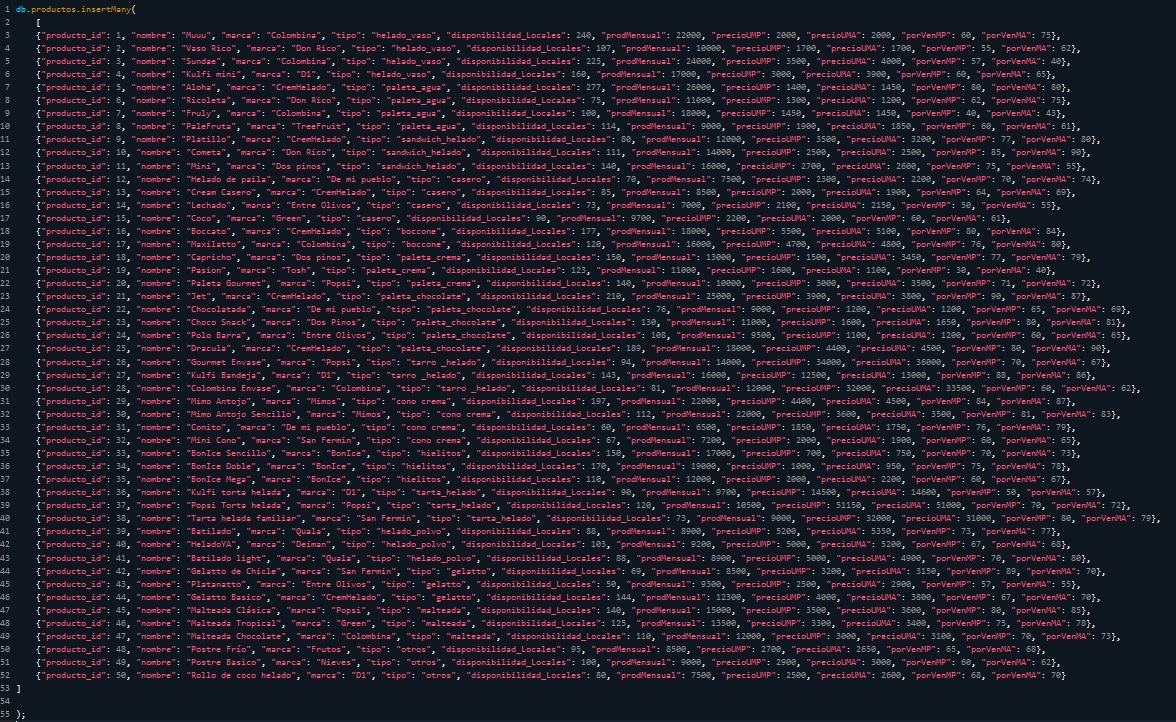
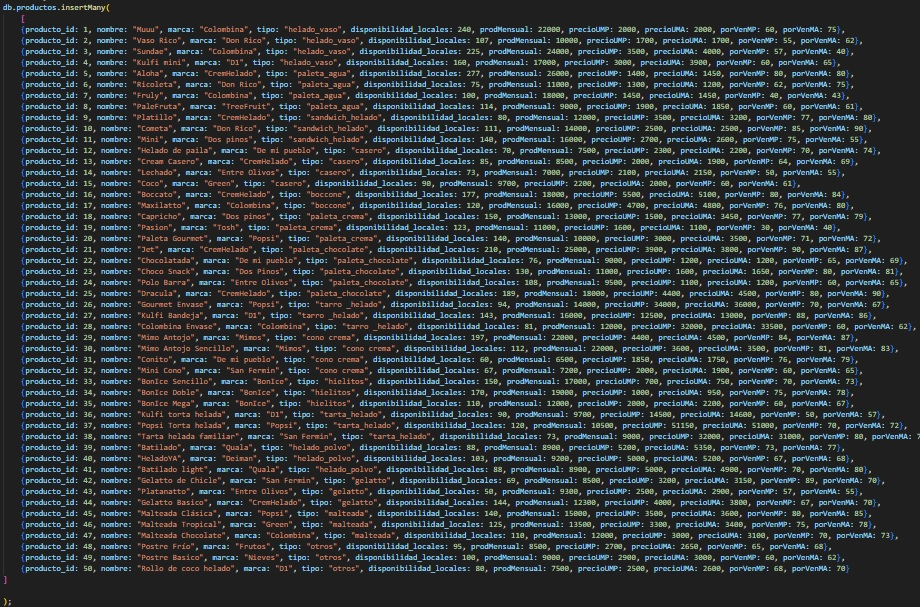
Correciones

diff --git a/src/Utilidades/ListaTarea.js b/src/Utilidades/ListaTarea.js
@@ -25,7 +25,7 @@ export const ListaTarea = [
     descripcion1: `La marca de helados "Don Rico" es bastante nueva en el mercado con solo un mes de salida,
     para confirmar sus éxitos se le solicitó a MercaHelado verificar cuáles de sus 3 productos se encuentran
     disponibles en más de 100 locales. Entonces se realizo la siguiente consulta:`,
-    consulta: `db.productos.find({$and: [{"marca": "Don Rico"}, {"disponibilidad_Locales": {$gt: 100}}]})`,
+    consulta: `db.productos.find({$and: [{marca: "Don Rico"}, {disponibilidad_locales: {$gt: 100}}]})`,
     imagen: consulta1,
     descripcion2: `Se obtiene entonces que los productos de la marca que se encuentran disponibles en mas de 100 locales
     son el "Vaso Rico" y el sandwich de helado "Cometa"`,
@@ -35,7 +35,7 @@ export const ListaTarea = [
     descripcion1: `Durante una reunion con las marcas asociadas uno de los encargados solicita conocer los productos con
     mayor produccion mensual y para ello supone un rango entre continuo 20000 y 30000 unidades de produccion. Entonces se realizo
     la siguiente consulta:`,
-    consulta: `db.collection.find({"prodMensual": {$gte: 20000, $lte: 30000}})`,
+    consulta: `db.collection.find({prodMensual: {$gte: 20000, $lte: 30000}})`,
     imagen: consulta2,
     descripcion2: `Se obtiene entonces que hay 6 productos cuya produccion mensual esta entre los 20000 y 30000 unidades, dichos productos podrian considerarse
     categorias de "alat demanda" y ademas que pertenecen a marcas reconocidas siendo CremHelado, Colombina y Mimos,"`,
@@ -45,7 +45,7 @@ export const ListaTarea = [
     descripcion1: `MercaHelado a decido que implementara alunas categorias de "alcance comercial" para los productos de acuerdo a su
     disponibilidad en locales, la categoria "municipal" aplicaria para productos los cuales NO poseen una disponibilidad
     de 100 locales pero a su vez poseen una disponibilidad de menos de 70 locales. Entonces se realizo la siguiente consulta:`,
-    consulta: `db.productos.find({"$and": [{"disponibilidad_Locales": {$not: {$eq: 100}}}, {"disponibilidad_Locales": {$lt: 70}}]})`,
+    consulta: `db.productos.find({$and: [{disponibilidad_locales: {$not: {$eq: 100}}}, {disponibilidad_locales: {$lt: 70}}]})`,
     imagen: consulta3,
     descripcion2: `Se obtiene entonces que hay 3 productos los cuales podrian catalogarse como productos de alcance comercial "municipal",
     ademas, sus marcas "San Farmin" y "De mi pueblo" no son necesariamente reconocidas a niveles regionales grandes o nacionales`,
@@ -55,7 +55,7 @@ export const ListaTarea = [
     descripcion1: `La marca de Colombina han notado que existe la posibilidad de que algunos de sus productos esten poseyendo, un
     porcentaje de venta actual inferior al del mes pasado, se colicita encontrar cuales de sus productos poseen un procentaje
     de venta del mes pasado superior al actual. Entonces se realizo la siguiente consulta: `,
-    consulta: `db.productos.find({"marca": "Colombina", "$expr": {$gt: ["$porVenMP", "$porVenMA"]}})`,
+    consulta: `db.productos.find({marca: "Colombina", "$expr": {$gt: ["$porVenMP", "$porVenMA"]}})`,
     imagen: consulta4,
     descripcion2: `Se obtiene entonces que de sus productos, el unico que a reducido su procentaje de ventas es el "Sundae", al ver 
     su informacion podria deducirse que es por el incremento de su precio de 3500 a 4000 pesos`,
@@ -64,7 +64,7 @@ export const ListaTarea = [
     titulo: "Consulta 5",
     descripcion1: `Por simple curiosidad durante una de las reuniones, uno de los encargados le interesa conocer, cual es la informacion sobre
     los 2 ultimo productos añadidos a la base de datos, entonces, se realiza la siguiente consulta:`,
-    consulta: `db.productos.find({"producto_id": {$in: [49, 50]}})`,
+    consulta: `db.productos.find({producto_id: {$in: [49, 50]}})`,
     imagen: consulta5,
     descripcion2: `Se obtiene que los productos son el "Postre Basico" y "Rollo de coco helado" en la categoria de otros (pendientes por categorizar o sin
     categoria especifica). En este caso una buqueda por rango limitado si seria adecuado pues obtenemos resultados mas exactos de acuerdo a lo solicitado`,
@@ -74,7 +74,7 @@ export const ListaTarea = [
     descripcion1: `Se sabe que hay 50 productos registrados dentro de MercaHelado de diversos asociados, y se desea notificar las marcas
     distribuidoras cuyos productos tengan un porcentaje de venta actual entre 80-90, uno de los encargados jefes ordena que la consulta se
     haga en rangos de 2 en 2. Entonces se realizo la siguiente consulta: `,
-    consulta: `db.productos.find({"porVenMA": {$in: [80, 82, 84, 86, 88, 90]}})`,
+    consulta: `db.productos.find({porVenMA: {$in: [80, 82, 84, 86, 88, 90]}})`,
     imagen: consulta6,
     descripcion2: `Se obtiene entonces que hay 8 productos los cuales podrian considerarse un rotundo exito de ventas de los cuales la 
     mitad son de "Crem Helado" y el esto son de marcas mas varias. Sin embargo, esta consulta por rango limitado resultaria no tan pracita
@@ -84,7 +84,7 @@ export const ListaTarea = [
     titulo: "Consulta 7",
     descripcion1: `Se sabe que las paletas de chocolate el producto con mayores registros en la base de Mercahelado, habiendo 5 de ellos
     , se desea conocer cuales de estas poseen producciones mensuales medias y se propone un rango continuo de 6000-10000. Se realiza la siguiente consulta: `,
-    consulta: `db.productos.find({"$and": [{"tipo": "paleta_chocolate"},{"prodMensual": {$gt: 6000, $lt: 10000}}]})`,
+    consulta: `db.productos.find({$and: [{tipo: "paleta_chocolate"},{prodMensual: {$gt: 6000, $lt: 10000}}]})`,
     imagen: consulta7,
     descripcion2: `Se obtiene entonces que hay 2 paletas cuyas producciones mensuales superan las 6000 unidades pero no las 10000 y que pertecen a marcas no tan
     reconocidas.`,
@@ -94,7 +94,7 @@ export const ListaTarea = [
     descripcion1: `Durante una reunion con las marcas asociadas el encagado de BonIce lanzo la siguiente afirmacion, "...con la constante inflacion de precios ya casi
     no se encuentra productos cuyos precios unitarios actuales a sean inferiores a 1000 pesos, creo que los unicos productos por debajo de este precio son los de mi
     marca a excepcion del "BonIce mega" porque es mucho mas grandes, creo". Para confirmar si la afirmacion es cierta se realizo la siguiente consulta`,
-    consulta: `db.productos.find({"$or": [{"marca": "BonIce"},{"precioUMA": {$lt: 1000}}]})`,
+    consulta: `db.productos.find({$or: [{marca: "BonIce"},{precioUMA: {$lt: 1000}}]})`,
     imagen: consulta8,
     descripcion2: `Se obtienen entonces los productos registrados de BonIce y al observas sus precios efectivamente el unico cuyo precio unitario actual esta por encima
     de 1000 pesos es el "BonIce" mega, la afirmacion del encargado resulta cierta al no haer otros productos que no fueran de BonIce con precios inferiores a los 1000 pesos`,
@@ -105,7 +105,7 @@ export const ListaTarea = [
     suponer que la disponibilidad de algunos de sus productos esta por encima de los 200 locales. De manera amistosa dos encargados de la marca apuestan para ver cual marca
     posee una mayor cantidad de productos con dicha disponibilidad en locales. La mayoria piensa que CremHelado sera la marca con mas productos bajo estas condiciones. Se 
     realiza la siguiente consulta para corroborar la afirmacion`,
-    consulta: `db.productos.find({"$and": [{"disponibilidad_Locales": {$gt: 200}}, {"marca": {$in: ["Colombina", "CremHelado"]}}]})`,
+    consulta: `db.productos.find({$and: [{disponibilidad_locales: {$gt: 200}}, {marca: {$in: ["Colombina", "CremHelado"]}}]})`,
     imagen: consulta9,
     descripcion2: `Se obtiene que hay un empate entre las 2 marcas al poseer una misma cantidad de productos con disponibilidad superior a 200,por lo que la  
     afirmacion realizada por la mayoria es incorrecta.`,
@@ -115,7 +115,7 @@ export const ListaTarea = [
     descripcion1: `Las anterior consulta demostro que algunos productos tanto de Colombina como CremHelado demustran una clara superioridad en disponibilidad, esto despierta
     el interes de un encargado quien solicita conocer que otros productos tienen disponibilidades similares, pero, bajo las condiciones que no pertenezcan a estas 2 marcas previas
     o tengan una disponibilidad en locales menor a 180. Para brindar informacion al encargado se relaiza la siguiente consulta`,
-    consulta: `db.productos.find({"$nor": [{"marca": "Colombina"}, {"marca": "CremHelado"}, {"disponibilidad_Locales": {$lt: 180}}]})`,
+    consulta: `db.productos.find({$nor: [{marca: "Colombina"}, {marca: "CremHelado"}, {disponibilidad_locales: {$lt: 180}}]})`,
     imagen: consulta10,
     descripcion2: `Se obtiene que solamente hay UN producto el cual no pertence a ni a Colombina ni a CremHelado cuya disponibilidad sea NO menor a 180 locales, 
     el cual es el cono crema "Mimo antojo" de la marca Mimos, puede suponerse que este unico producto es el mas comercializado en su categoria y en futuros meses
@@ -125,7 +125,7 @@ export const ListaTarea = [
     titulo: "Consulta 11",
     descripcion1: `Como plataforma puente de distirbucion de productos MercaHelado debe alertar a sus marcas asociadas cuando un producto tiene procentajes de venta menores al 50%
     tanto en un mes pasado como en el mes actual, para informr sobre posibles recuperaciones o perdidas. La consulta a aplicarse para estos casos es la siguiente:`,
-    consulta: `db.productos.find({"$or": [{"porVenMP": {$lt: 50}}, {"porVenMA": {$lt: 50}}]})`,
+    consulta: `db.productos.find({$or: [{porVenMP: {$lt: 50}}, {porVenMA: {$lt: 50}}]})`,
     imagen: consulta11,
     descripcion2: `Se obtiene entonces que hay 3 productos los cuales estan por debajo del 50% de ventas, donde la paleta de agua "Fruly" aparentan tener una recuperacion bastante lenta 
     mientras que la paleta de crema "Pasion" consiguio alzar un 10%, por su parte, el "Sundae" tubo una perdida de 17%`,
@@ -134,7 +134,7 @@ export const ListaTarea = [
     titulo: "Consulta 11",
     descripcion1: `Como plataforma puente de distirbucion de productos MercaHelado debe alertar a sus marcas asociadas cuando un producto tiene procentajes de venta menores al 50%
     tanto en un mes pasado como en el mes actual, para informr sobre posibles recuperaciones o perdidas. La consulta a aplicarse para estos casos es la siguiente:`,
-    consulta: `db.productos.find({"$or": [{"porVenMP": {$lt: 50}}, {"porVenMA": {$lt: 50}}]})`,
+    consulta: `db.productos.find({$or: [{porVenMP: {$lt: 50}}, {porVenMA: {$lt: 50}}]})`,
     imagen: consulta11,
     descripcion2: `Se obtiene entonces que hay 3 productos los cuales estan por debajo del 50% de ventas, donde la paleta de agua "Fruly" aparentan tener una recuperacion bastante lenta 
     mientras que la paleta de crema "Pasion" consiguio alzar un 10%, por su parte, el "Sundae" tubo una perdida de 17%`,
@@ -144,7 +144,7 @@ export const ListaTarea = [
     descripcion1: `Continuando una reunion previa, un encargado de las marcas asociadas afirma que existe la gran posibilidad de que todos productos de tipo "hielitos" 
     sean solo de la marca BonIce y que de ser cierto representa una gran oportunidad para otras marcas para entrar en competencia. Para ver si esta posibilidad es una verdad
     se realiza la siguiente consulta:`,
-    consulta: `db.productos.find({ "tipo": "hielitos", "marca": { $ne: "BonIce" } })`,
+    consulta: `db.productos.find({ tipo: "hielitos", marca: { $ne: "BonIce" } })`,
     imagen: consulta12,
     descripcion2: `Se obtiene entonces que no hay otros productos de tipo "hielitos" que no sean de BonIce, por lo que la posibilidad mencionada se convierte en una verdad ,
     pero, tambien podria significar que BonIce monopolizo este tipo de producto la punto de no haber espacio para un competidor mas en esta categoria`,
@@ -154,7 +154,7 @@ export const ListaTarea = [
     descripcion1: `En un descuido accidentalemnte se borran algunos informes sobre los precios unitarios actuales mas caros, como la reunion es proxima en 5 
     minutos, rapidamente se solicita a los encargados de la base de datos un pequeño reporte con los productos regitrados con un precio unitario actual entre
     los 30000 y 55000 pesos, la consulta que se elabora es la siguiente:`,
-    consulta: `db.productos.find({ "precioUMA": { $gte: 30000, $lte: 55000 } })`,
+    consulta: `db.productos.find({ precioUMA: { $gte: 30000, $lte: 55000 } })`,
     imagen: consulta13,
     descripcion2: `Se obtiene entonces hay 3 productos cuyos precios actuales estan en el rango definido, donde 2 pertenecen al tipo  "tarta_helada"
     y uno a "helados_envase" `,
@@ -164,7 +164,7 @@ export const ListaTarea = [
     descripcion1: `A raiz de la consulta anterior se da cuenta de que los productos de los tipos "tarta_helada" pueden ser muy caros para un comprador casual, en respuesta
     a esta situacion se encarga ahora buscar productos de este tipo cuyo precio actual este por debajo de los 0000 pesos, para darle mayor apoyo publcitario, 
     la consulta que se elabora es la siguiente:`,
-    consulta: `db.productos.find({ "tipo": "tarta_helado", "precioUMA": { $lte: 30000 } })`,
+    consulta: `db.productos.find({ tipo: "tarta_helado", precioUMA: { $lte: 30000 } })`,
     imagen: consulta14,
     descripcion2: `Se obtiene entonces hay un solo del tipo  "tarta_helada cuyo precio esta por debajo de los 30000 pesos, al darle un mayor bono publicitario
     existira la posibilidad de icrementar su porcentaje de venta para el siguiente mes.`,
@@ -173,7 +173,7 @@ export const ListaTarea = [
     titulo: "Consulta 15",
     descripcion1: `Se propone realizar una clasificacion de los productos de acuerdo al numero de produccion mensual, la categoria "produccion municipal" corresponderia
     a aquellos productos que no lograsen superar las 7000 unidades, se elabora la siguiente consulta para encontrar los productos a clasificarse en esta categoria:`,
-    consulta: `db.productos.find({ "prodMensual": { $lte: 7000 } })`,
+    consulta: `db.productos.find({ prodMensual: { $lte: 7000 } })`,
     imagen: consulta15,
     descripcion2: `Se obtiene entonces hay un solo del tipo  "tarta_helada cuyo precio esta por debajo de los 30000 pesos, al darle un mayor bono publicitario
     existira la posibilidad de icrementar su porcentaje de venta para el siguiente mes.`,
@@ -183,7 +183,7 @@ export const ListaTarea = [
     descripcion1: `Se ha identificado que hay productos los cuales no estan vendiendo tan "positivamente " como deberian, para ello se aplica una posible promoción especial 
     para elevar las ventas del producto y este apliaca solo si el porcentaje de ventas del mes pasado  de dicho producto haya sido inferior al 70%. Se solicita hacer una revision
     de este estilo para productos de tipo "cono_crema" cuyo precio unitario del mes pasado estuviera en el rango de 1500 a 2500`,
-    consulta: `db.productos.find({ "$and": [ { "tipo": "cono crema" }, { "precioUMP": { $gte: 1500, $lte: 2500 } }, { "porVenMP": { $lt: 70 } } ] })`,
+    consulta: `db.productos.find({ $and: [ { tipo: "cono crema" }, { precioUMP: { $gte: 1500, $lte: 2500 } }, { porVenMP: { $lt: 70 } } ] })`,
     imagen: consulta16,
     descripcion2: `Se obtiene entonces hay un solo un producto del tipo "cono crema" el cual calificaria para la promocion espacial.`,
   },
@@ -191,7 +191,7 @@ export const ListaTarea = [
     titulo: "Consulta 17",
     descripcion1: `Las marcas Colombina y CremHelado esta considerando reducir la produccion mensual de productos cuya cantidad a producirse sea menor a 15000 y 
     su porcentaje de venta actual este por debajo del 65, para ello le solicitan a MercaHelado una consulta con los anteriores parametros, la consulta es la siguiente`,
-    consulta: `db.productos.find({ "$and": [ { "marca": { $in: ["Colombina", "CremHelado"] } }, { "prodMensual": { $lt: 15000 } }, { "porVenMA": { $lt: 65 } } ] })`,
+    consulta: `db.productos.find({ $and: [ { marca: { $in: ["Colombina", "CremHelado"] } }, { prodMensual: { $lt: 15000 } }, { porVenMA: { $lt: 65 } } ] })`,
     imagen: consulta17,
     descripcion2: `Se obtiene entonces hay un solo un producto correspondiente a Colombina el cual posiblemente vera su produccion reducida por su porcentaje de ventas
     y numero d eproduccion.`,
@@ -218,7 +218,7 @@ export const ListaTarea = [
     titulo: "Consulta 20",
     descripcion1: `Por simple curiosidad un encargado quiere ver los productos bajo el producto_id "1, 7, 8, y 44", un encargado de la base de datos le hace el favor 
     con la siguiente consulta:`,
-    consulta: `db.productos.find({ "producto_id": { $in: [1, 7, 8, 44] } })`,
+    consulta: `db.productos.find({ producto_id: { $in: [1, 7, 8, 44] } })`,
     imagen: consulta20,
     descripcion2: `Se obitene que los prodcutos en estas IDs son: El healdo de vaso Muuu, las paletas de agua Fruly y PaleFruta, y el Gellato basico`,
   },

diff --git a/public/baseMH.js b/public/baseMH.js
@@ -1,0 +1,79 @@
+db.productos.insertMany(
+    [
+    {producto_id: 1, nombre: "Muuu", marca: "Colombina", tipo: "helado_vaso", disponibilidad_locales: 240, prodMensual: 22000, precioUMP: 2000, precioUMA: 2000, porVenMP: 60, porVenMA: 75},
+    {producto_id: 2, nombre: "Vaso Rico", marca: "Don Rico", tipo: "helado_vaso", disponibilidad_locales: 107, prodMensual: 10000, precioUMP: 1700, precioUMA: 1700, porVenMP: 55, porVenMA: 62},
+    {producto_id: 3, nombre: "Sundae", marca: "Colombina", tipo: "helado_vaso", disponibilidad_locales: 225, prodMensual: 24000, precioUMP: 3500, precioUMA: 4000, porVenMP: 57, porVenMA: 40},
+    {producto_id: 4, nombre: "Kulfi mini", marca: "D1", tipo: "helado_vaso", disponibilidad_locales: 160, prodMensual: 17000, precioUMP: 3000, precioUMA: 3900, porVenMP: 60, porVenMA: 65},
+    {producto_id: 5, nombre: "Aloha", marca: "CremHelado", tipo: "paleta_agua", disponibilidad_locales: 277, prodMensual: 26000, precioUMP: 1400, precioUMA: 1450, porVenMP: 80, porVenMA: 80},
+    {producto_id: 6, nombre: "Ricoleta", marca: "Don Rico", tipo: "paleta_agua", disponibilidad_locales: 75, prodMensual: 11000, precioUMP: 1300, precioUMA: 1200, porVenMP: 62, porVenMA: 75},
+    {producto_id: 7, nombre: "Fruly", marca: "Colombina", tipo: "paleta_agua", disponibilidad_locales: 100, prodMensual: 18000, precioUMP: 1450, precioUMA: 1450, porVenMP: 40, porVenMA: 43},
+    {producto_id: 8, nombre: "PaleFruta", marca: "TreeFruit", tipo: "paleta_agua", disponibilidad_locales: 114, prodMensual: 9000, precioUMP: 1900, precioUMA: 1850, porVenMP: 60, porVenMA: 61},
+    {producto_id: 9, nombre: "Platillo", marca: "CremHelado", tipo: "sandwich_helado", disponibilidad_locales: 80, prodMensual: 12000, precioUMP: 3500, precioUMA: 3200, porVenMP: 77, porVenMA: 80},
+    {producto_id: 10, nombre: "Cometa", marca: "Don Rico", tipo: "sandwich_helado", disponibilidad_locales: 111, prodMensual: 14000, precioUMP: 2500, precioUMA: 2500, porVenMP: 85, porVenMA: 90},
+    {producto_id: 11, nombre: "Mini", marca: "Dos pinos", tipo: "sandwich_helado", disponibilidad_locales: 140, prodMensual: 16000, precioUMP: 2700, precioUMA: 2600, porVenMP: 75, porVenMA: 55},
+    {producto_id: 12, nombre: "Helado de paila", marca: "De mi pueblo", tipo: "casero", disponibilidad_locales: 70, prodMensual: 7500, precioUMP: 2300, precioUMA: 2200, porVenMP: 70, porVenMA: 74},
+    {producto_id: 13, nombre: "Cream Casero", marca: "CremHelado", tipo: "casero", disponibilidad_locales: 85, prodMensual: 8500, precioUMP: 2000, precioUMA: 1900, porVenMP: 64, porVenMA: 69},
+    {producto_id: 14, nombre: "Lechado", marca: "Entre Olivos", tipo: "casero", disponibilidad_locales: 73, prodMensual: 7000, precioUMP: 2100, precioUMA: 2150, porVenMP: 50, porVenMA: 55},
+    {producto_id: 15, nombre: "Coco", marca: "Green", tipo: "casero", disponibilidad_locales: 90, prodMensual: 9700, precioUMP: 2200, precioUMA: 2000, porVenMP: 60, porVenMA: 61},
+    {producto_id: 16, nombre: "Boccato", marca: "CremHelado", tipo: "boccone", disponibilidad_locales: 177, prodMensual: 18000, precioUMP: 5500, precioUMA: 5100, porVenMP: 80, porVenMA: 84},
+    {producto_id: 17, nombre: "Maxilatto", marca: "Colombina", tipo: "boccone", disponibilidad_locales: 120, prodMensual: 16000, precioUMP: 4700, precioUMA: 4800, porVenMP: 76, porVenMA: 80},
+    {producto_id: 18, nombre: "Capricho", marca: "Dos pinos", tipo: "paleta_crema", disponibilidad_locales: 150, prodMensual: 13000, precioUMP: 1500, precioUMA: 3450, porVenMP: 77, porVenMA: 79},
+    {producto_id: 19, nombre: "Pasion", marca: "Tosh", tipo: "paleta_crema", disponibilidad_locales: 123, prodMensual: 11000, precioUMP: 1600, precioUMA: 1100, porVenMP: 30, porVenMA: 40},
+    {producto_id: 20, nombre: "Paleta Gourmet", marca: "Popsi", tipo: "paleta_crema", disponibilidad_locales: 140, prodMensual: 10000, precioUMP: 3000, precioUMA: 3500, porVenMP: 71, porVenMA: 72},
+    {producto_id: 21, nombre: "Jet", marca: "CremHelado", tipo: "paleta_chocolate", disponibilidad_locales: 210, prodMensual: 25000, precioUMP: 3900, precioUMA: 3800, porVenMP: 90, porVenMA: 87},
+    {producto_id: 22, nombre: "Chocolatada", marca: "De mi pueblo", tipo: "paleta_chocolate", disponibilidad_locales: 76, prodMensual: 9000, precioUMP: 1200, precioUMA: 1200, porVenMP: 65, porVenMA: 69},
+    {producto_id: 23, nombre: "Choco Snack", marca: "Dos Pinos", tipo: "paleta_chocolate", disponibilidad_locales: 130, prodMensual: 11000, precioUMP: 1600, precioUMA: 1650, porVenMP: 80, porVenMA: 81},
+    {producto_id: 24, nombre: "Polo Barra", marca: "Entre Olivos", tipo: "paleta_chocolate", disponibilidad_locales: 108, prodMensual: 9500, precioUMP: 1100, precioUMA: 1200, porVenMP: 60, porVenMA: 65},
+    {producto_id: 25, nombre: "Dracula", marca: "CremHelado", tipo: "paleta_chocolate", disponibilidad_locales: 189, prodMensual: 18000, precioUMP: 4400, precioUMA: 4500, porVenMP: 80, porVenMA: 90},
+    {producto_id: 26, nombre: "Gourmet Envase", marca: "Popsi", tipo: "tarro _helado", disponibilidad_locales: 94, prodMensual: 14000, precioUMP: 34000, precioUMA: 36000, porVenMP: 70, porVenMA: 67},
+    {producto_id: 27, nombre: "Kulfi Bandeja", marca: "D1", tipo: "tarro _helado", disponibilidad_locales: 143, prodMensual: 16000, precioUMP: 12500, precioUMA: 13000, porVenMP: 88, porVenMA: 86},
+    {producto_id: 28, nombre: "Colombina Envase", marca: "Colombina", tipo: "tarro _helado", disponibilidad_locales: 81, prodMensual: 12000, precioUMP: 32000, precioUMA: 33500, porVenMP: 60, porVenMA: 62},
+    {producto_id: 29, nombre: "Mimo Antojo", marca: "Mimos", tipo: "cono crema", disponibilidad_locales: 197, prodMensual: 22000, precioUMP: 4400, precioUMA: 4500, porVenMP: 84, porVenMA: 87},
+    {producto_id: 30, nombre: "Mimo Antojo Sencillo", marca: "Mimos", tipo: "cono crema", disponibilidad_locales: 112, prodMensual: 22000, precioUMP: 3600, precioUMA: 3500, porVenMP: 81, porVenMA: 83},
+    {producto_id: 31, nombre: "Conito", marca: "De mi pueblo", tipo: "cono crema", disponibilidad_locales: 60, prodMensual: 6500, precioUMP: 1850, precioUMA: 1750, porVenMP: 76, porVenMA: 79},
+    {producto_id: 32, nombre: "Mini Cono", marca: "San Fermin", tipo: "cono crema", disponibilidad_locales: 67, prodMensual: 7200, precioUMP: 2000, precioUMA: 1900, porVenMP: 60, porVenMA: 65},
+    {producto_id: 33, nombre: "BonIce Sencillo", marca: "BonIce", tipo: "hielitos", disponibilidad_locales: 150, prodMensual: 17000, precioUMP: 700, precioUMA: 750, porVenMP: 70, porVenMA: 73},
+    {producto_id: 34, nombre: "BonIce Doble", marca: "BonIce", tipo: "hielitos", disponibilidad_locales: 170, prodMensual: 19000, precioUMP: 1000, precioUMA: 950, porVenMP: 75, porVenMA: 78},
+    {producto_id: 35, nombre: "BonIce Mega", marca: "BonIce", tipo: "hielitos", disponibilidad_locales: 110, prodMensual: 12000, precioUMP: 2000, precioUMA: 2200, porVenMP: 60, porVenMA: 67},
+    {producto_id: 36, nombre: "Kulfi torta helada", marca: "D1", tipo: "tarta_helado", disponibilidad_locales: 90, prodMensual: 9700, precioUMP: 14500, precioUMA: 14600, porVenMP: 50, porVenMA: 57},
+    {producto_id: 37, nombre: "Popsi Torta helada", marca: "Popsi", tipo: "tarta_helado", disponibilidad_locales: 120, prodMensual: 10500, precioUMP: 51150, precioUMA: 51000, porVenMP: 70, porVenMA: 72},
+    {producto_id: 38, nombre: "Tarta helada familiar", marca: "San Fermin", tipo: "tarta_helado", disponibilidad_locales: 73, prodMensual: 9000, precioUMP: 32000, precioUMA: 31000, porVenMP: 80, porVenMA: 79},
+    {producto_id: 39, nombre: "Batilado", marca: "Quala", tipo: "helado_polvo", disponibilidad_locales: 88, prodMensual: 8900, precioUMP: 5200, precioUMA: 5350, porVenMP: 73, porVenMA: 77},
+    {producto_id: 40, nombre: "HeladoYA", marca: "Deiman", tipo: "helado_polvo", disponibilidad_locales: 103, prodMensual: 9200, precioUMP: 5000, precioUMA: 5200, porVenMP: 67, porVenMA: 68},
+    {producto_id: 41, nombre: "Batilado light", marca: "Quala", tipo: "helado_polvo", disponibilidad_locales: 88, prodMensual: 8900, precioUMP: 5000, precioUMA: 4900, porVenMP: 70, porVenMA: 80},
+    {producto_id: 42, nombre: "Gelatto de Chicle", marca: "San Fermin", tipo: "gelatto", disponibilidad_locales: 69, prodMensual: 8500, precioUMP: 3200, precioUMA: 3150, porVenMP: 89, porVenMA: 70},
+    {producto_id: 43, nombre: "Platanatto", marca: "Entre Olivos", tipo: "gelatto", disponibilidad_locales: 50, prodMensual: 9300, precioUMP: 2500, precioUMA: 2900, porVenMP: 57, porVenMA: 55},
+    {producto_id: 44, nombre: "Gelatto Basico", marca: "CremHelado", tipo: "gelatto", disponibilidad_locales: 144, prodMensual: 12300, precioUMP: 4000, precioUMA: 3800, porVenMP: 67, porVenMA: 70},
+    {producto_id: 45, nombre: "Malteada Clásica", marca: "Popsi", tipo: "malteada", disponibilidad_locales: 140, prodMensual: 15000, precioUMP: 3500, precioUMA: 3600, porVenMP: 80, porVenMA: 85},
+    {producto_id: 46, nombre: "Malteada Tropical", marca: "Green", tipo: "malteada", disponibilidad_locales: 125, prodMensual: 13500, precioUMP: 3300, precioUMA: 3400, porVenMP: 75, porVenMA: 78},
+    {producto_id: 47, nombre: "Malteada Chocolate", marca: "Colombina", tipo: "malteada", disponibilidad_locales: 110, prodMensual: 12000, precioUMP: 3000, precioUMA: 3100, porVenMP: 70, porVenMA: 73},
+    {producto_id: 48, nombre: "Postre Frío", marca: "Frutos", tipo: "otros", disponibilidad_locales: 95, prodMensual: 8500, precioUMP: 2700, precioUMA: 2650, porVenMP: 65, porVenMA: 68},
+    {producto_id: 49, nombre: "Postre Basico", marca: "Nieves", tipo: "otros", disponibilidad_locales: 100, prodMensual: 9000, precioUMP: 2900, precioUMA: 3000, porVenMP: 60, porVenMA: 62},
+    {producto_id: 50, nombre: "Rollo de coco helado", marca: "D1", tipo: "otros", disponibilidad_locales: 80, prodMensual: 7500, precioUMP: 2500, precioUMA: 2600, porVenMP: 68, porVenMA: 70}
+]
+
+);
+
+// db.productos.find({$and: [{marca: "Don Rico"}, {disponibilidad_locales: {$gt: 100}}]}) Encuentra productos "Don Rico" disponibles en 100 locales o mas
+// db.productos.find({prodMensual: {$gte: 20000, $lte: 30000}}) Encunetra productos cuya produccion mensual este entre 20000 y 30000 unidades
+// db.productos.find({marca: "Colombina", "$expr": {$gt: ["$porVenMP", "$porVenMA"]}}) Encuentra productos de la marca Colombina donde se compara si su porVenMP es mayor al porVenMA
+// db.productos.find({"$and": [{disponibilidad_locales: {$not: {$eq: 100}}}, {disponibilidad_locales: {$lt: 70}}]}) Encuentra productos que NO poseen una disponibilidad_Locales de 100 y son menores a 80
+// db.productos.find({porVenMA: {$in: [80, 82, 84, 86, 88, 90]}}) Encuentra productos con un porVenMA de 80-90 en rangos de 2 en 2
+// db.productos.find({"$and": [{tipo: "paleta_chocolate"},{prodMensual: {$gt: 6000, $lt: 10000}}]}) Encuentra productos de paleta de chocolate con producciones mensuales de 6000 a 10000
+// db.productos.find({producto_id: {$in: [49, 50]}}) 
+// db.productos.find({"$or": [{marca: "BonIce"},{precioUMA: {$lt: 1000}}]}) Encuntra productos de BonIce O aquellos que tengan precios inferiores a 1000
+// db.productos.find({"$and": [{disponibilidad_locales: {$gt: 200}}, {marca: {$in: ["Colombina", "CremHelado"]}}]}) Mustra productos con disponibilidad en locales mayor a 200 de las marcas Colombina y CremHelado
+// db.productos.find({"$or": [{porVenMP: {$lt: 50}}, {porVenMA: {$lt: 50}}]}) Muestra productos cuyos porVenMP y porVenMA sean inferiores a 50
+// db.productos.find({"$nor": [{marca: "Colombina"}, {marca: "CremHelado"}, {disponibilidad_locales: {$lt: 180}}]})
+// db.productos.find({ tipo: "hielitos", marca: { $ne: "BonIce" } }) Muestra productos del tipo "hielitos" pero que no sean de la marca "BonIce"
+// db.productos.find({ precioUMA: { $gte: 30000, $lte: 55000 } }) Muestra productos cuyo precio actual este entre los 30000 y 55000
+// db.productos.find({ tipo: "tarta_helado", precioUMA: { $lte: 30000 } }) Muestra productos del tipo "tarta_helado" cuyo precio unitario actual este por debajo 30000 pesos
+// db.productos.find({ "$and": [ { tipo: "cono crema" }, { precioUMP: { $gte: 1500, $lte: 2500 } }, { porVenMP: { $lt: 70 } } ] }) Muestra productos del tipo cono crema que cuesten entre 1500-2500 y su porcentaje de ventas el mes pasado sea menor a 70
+//db.productos.find({ "$and": [ { marca: { $in: ["Colombina", "CremHelado"] } }, { prodMensual: { $lt: 15000 } }, { porVenMA: { $lt: 65 } } ] })
+//db.productos.find({ $expr: { $gt: ["$porVenMA", "$porVenMP"] }, disponibilidad_Locales: { $lt: 70 } })
+//db.productos.find({ $and: [ { disponibilidad_Locales: { $lte: 50 } }, { porVenMA: { $lte: 60 } } ] })
+//db.productos.find({ producto_id: { $in: [1, 7, 8, 44] } })
+
+
+
+

diff --git a/src/pages/Tarea.js b/src/pages/Tarea.js
@@ -6,12 +6,13 @@ import '../styles/Tareas.css'
 
 function Tarea() {
 
-  const rutaArchvio = '/src/Utilidades/baseMH.js';
+  //const rutaArchvio = '../Utilidades/baseMH.js';
+  
 
   return (
     <div className="tarea">
       <div className="contenedorTarea">
-      <h1 className='tituloTarea'>Caso de estudio: Fin de mes MercaHelado</h1>
+      <h1 className='tituloTarea'>Caso de estudio: MercaHelado</h1>
         <p className='parrafoTarea'>El fin de mes comienza a acercarse y como tal la empresa de Mercahelado y la base de datos que poseen deben estar preparadas
           para poder brindar informacion respecto a los productos registrados de sus asociados. Como tal cada producto cuenta con los siguientes
           campos de informacion:
@@ -30,7 +31,10 @@ function Tarea() {
           </ul>
           <p/>
           <p>Haz clic en el siguiente enlace para descargar el archivo de la base de datos:</p>
-          <a href={rutaArchvio} download="baseMH.js">Descargar baseMH.js</a>
+          <a href="/baseMH.js" download>
+          Descargar baseMH.js
+        </a>
+
           <p/>
           <p>Imagen de la base:</p>
           <img src={base}/>

diff --git a/public/index.html b/public/index.html
@@ -24,7 +24,7 @@
       work correctly both with client-side routing and a non-root public URL.
       Learn how to configure a non-root public URL by running `npm run build`.
     -->
-    <title>React App</title>
+    <title>Pagina de React</title>
   </head>
   <body>
     <noscript>You need to enable JavaScript to run this app.</noscript>
